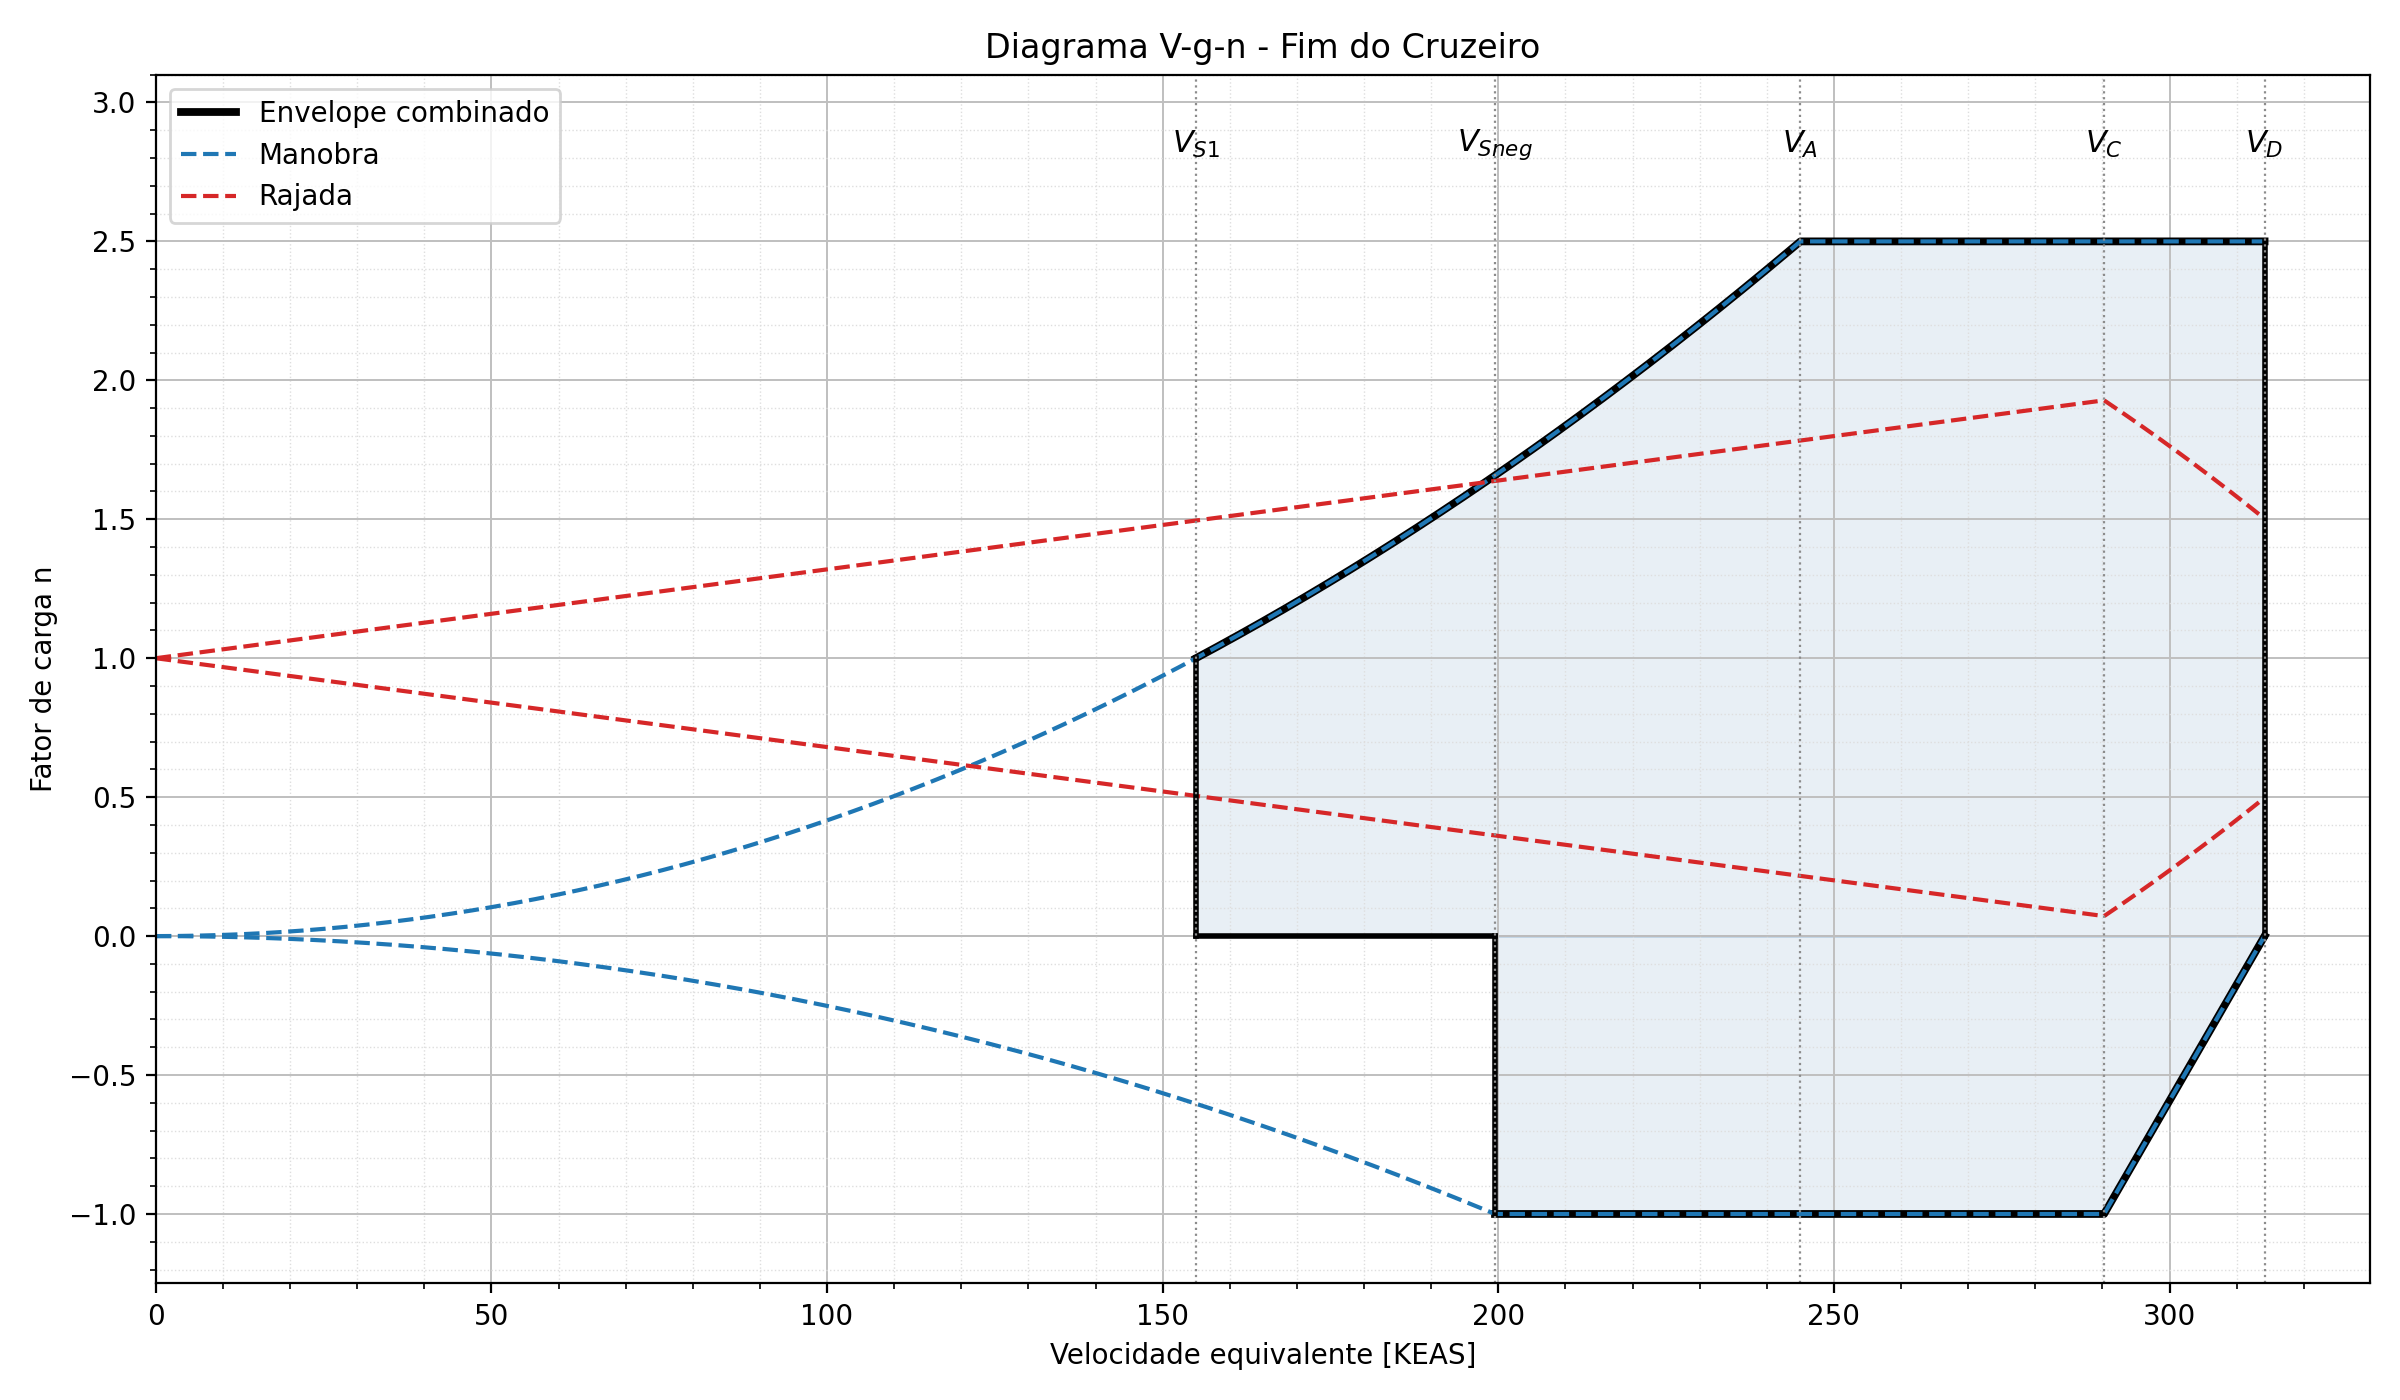
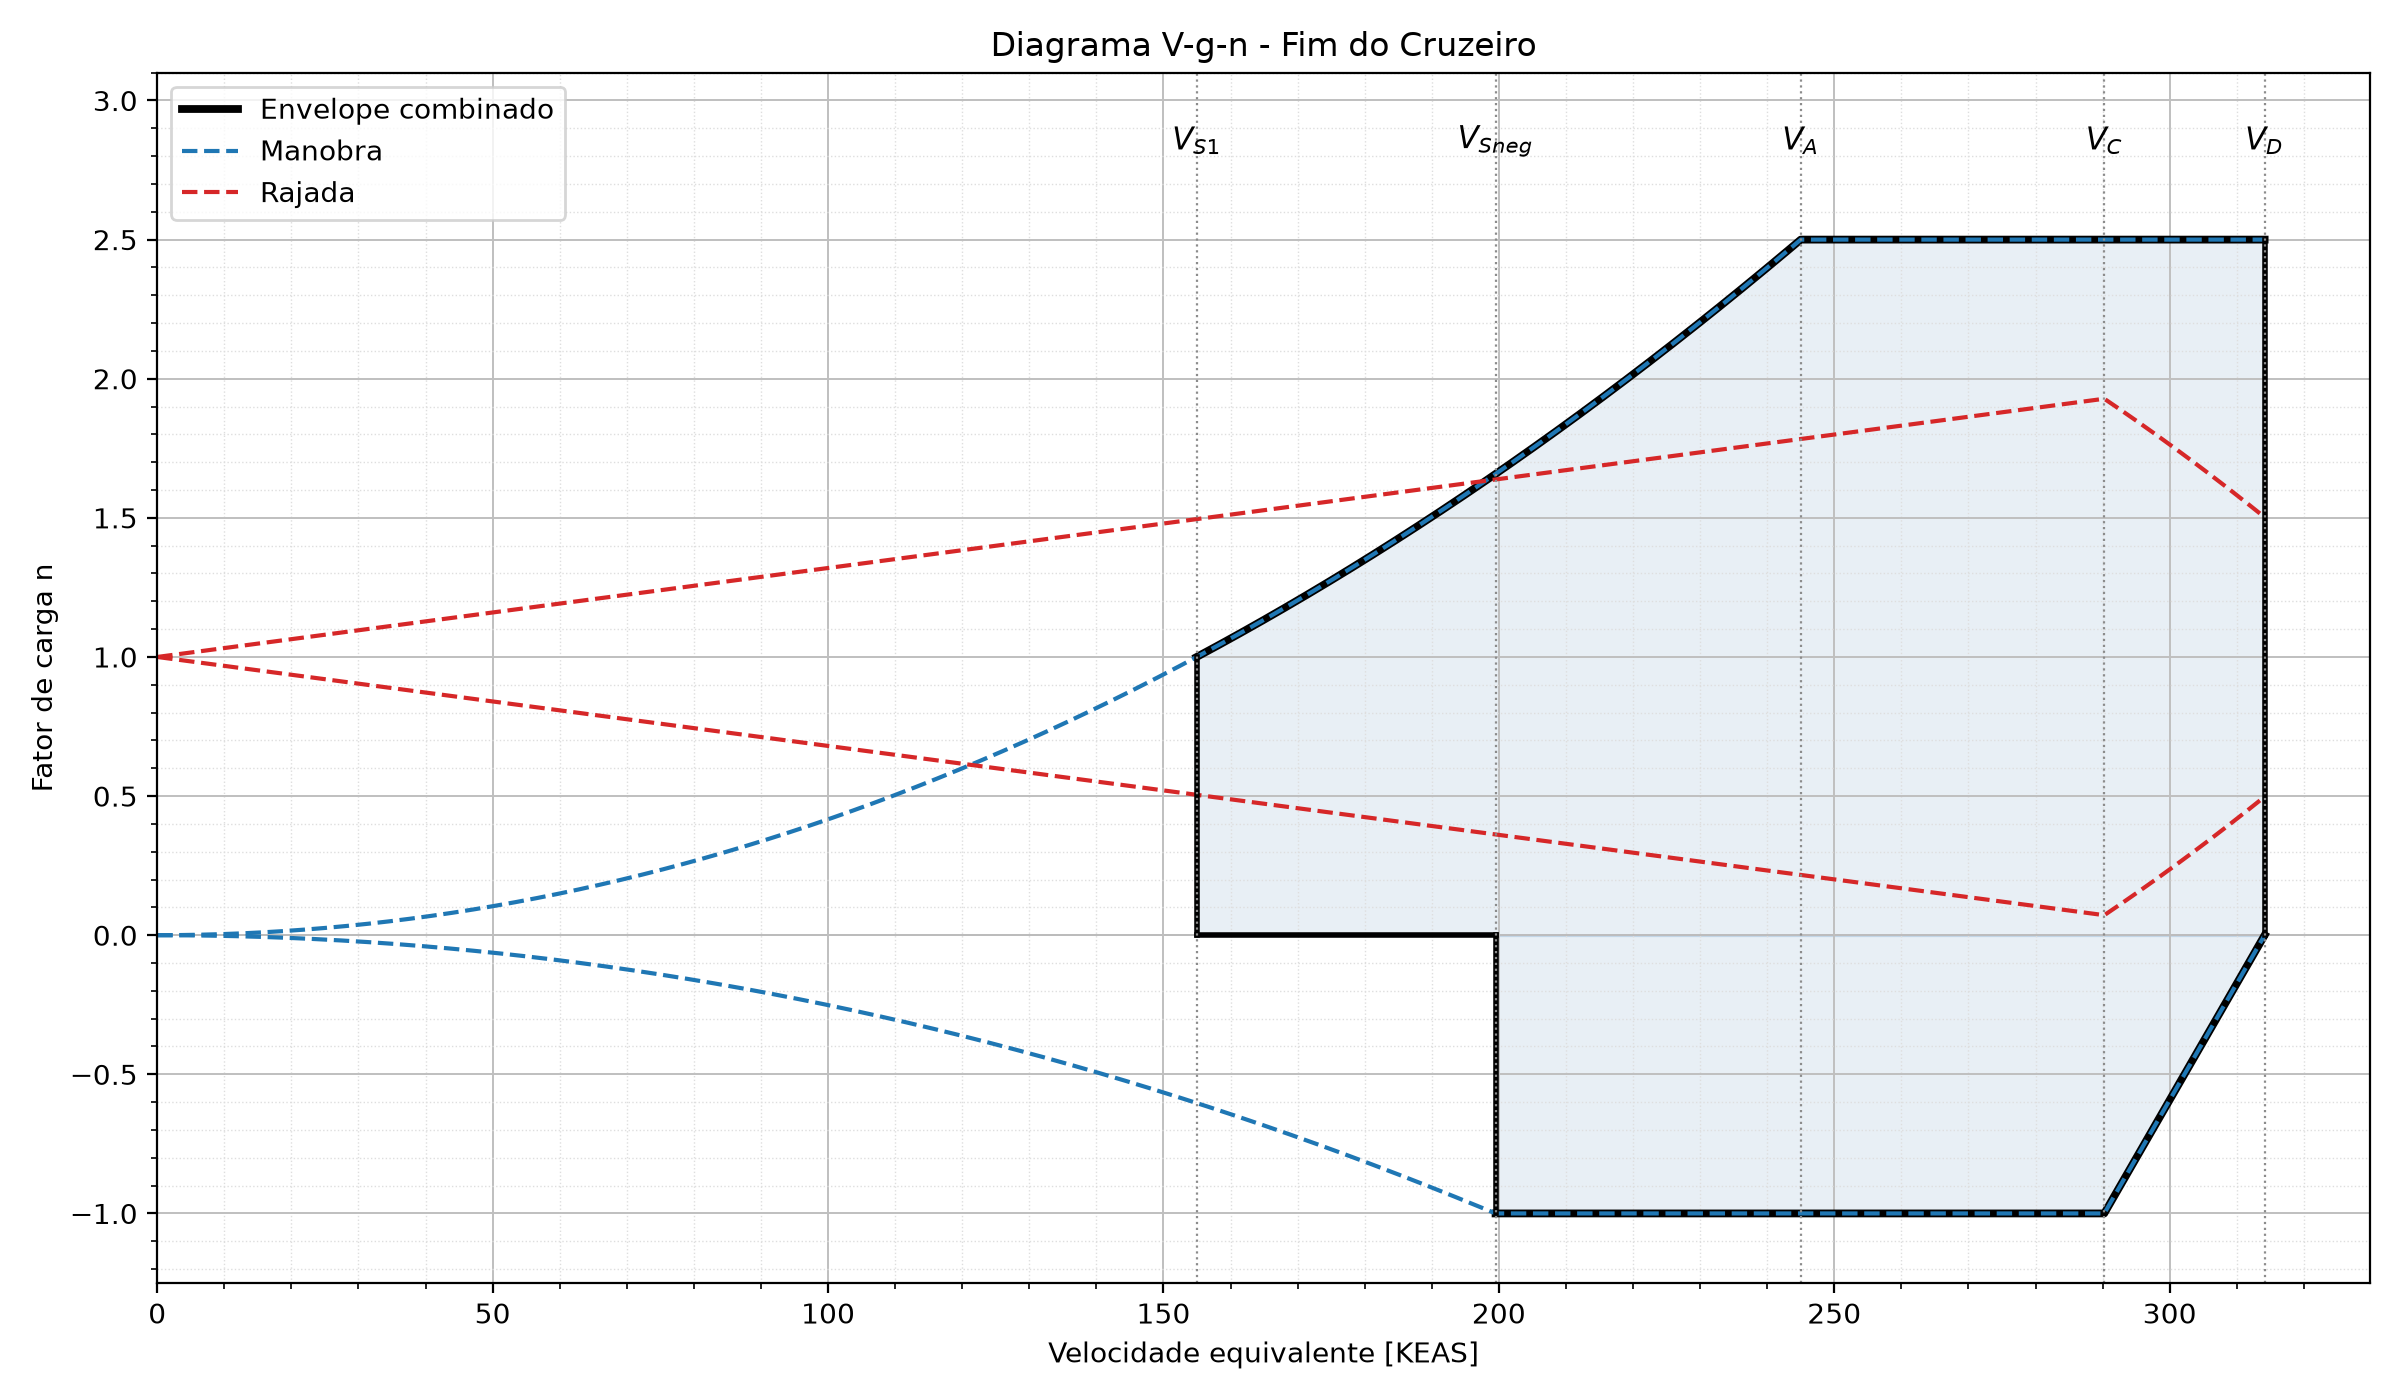
Correção xcg

diff --git a/Lab6.py b/Lab6.py
@@ -46,8 +46,6 @@ S_w = inputs['S_w']
 cm_w = geo['cm_w']
 b_w = geo['b_w']
 
-xcg = airplane['balance']['CG_hist']['xcg_efpc']
-
 Mach_cruise = inputs['Mach_cruise']
 altitude_cruise = inputs['altitude_cruise']
 
@@ -59,7 +57,20 @@ for phase in ('start', 'taxi', 'takeoff', 'climb'):
     W_cruise_start *= mf[phase]
 W_cruise_end = W_cruise_start * mf['cruise']
 
+def xcg_aviao(airplane, W):
+    W_empty = airplane['thrust_matching']['W_empty']
+    xcg_empty = airplane['empty_weight']['xcg_empty']
+    W_payload = airplane['inputs']['W_payload']
+    xcg_payload = airplane['inputs']['xcg_payload']
+    W_crew = airplane['inputs']['W_crew']
+    xcg_crew = airplane['inputs']['xcg_crew']
+    xcg_fuel = airplane['balance']['xcg_fuel']
+    W_fuel = W - W_empty - W_payload - W_crew
+    xcg = (W_empty*xcg_empty + W_fuel*xcg_fuel + W_payload*xcg_payload + W_crew*xcg_crew)/W
+    return xcg
+
 for W, nome_caso in zip((W_cruise_start, W_cruise_end), ("Início do Cruzeiro", "Fim do Cruzeiro")):
+    xcg = xcg_aviao(airplane, W)
     print(f"========== AVL {nome_caso} ==========")
     W_fuel_remaining = W - tm['W_empty'] - inputs['W_crew'] - inputs['W_payload']
     fuel_frac = W_fuel_remaining / tm['W_fuel']
